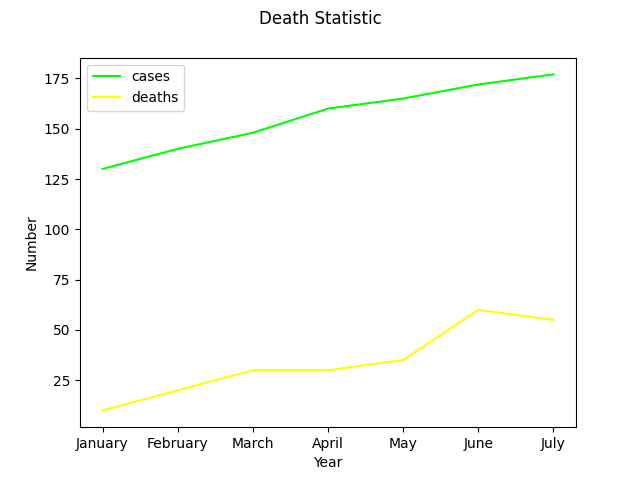
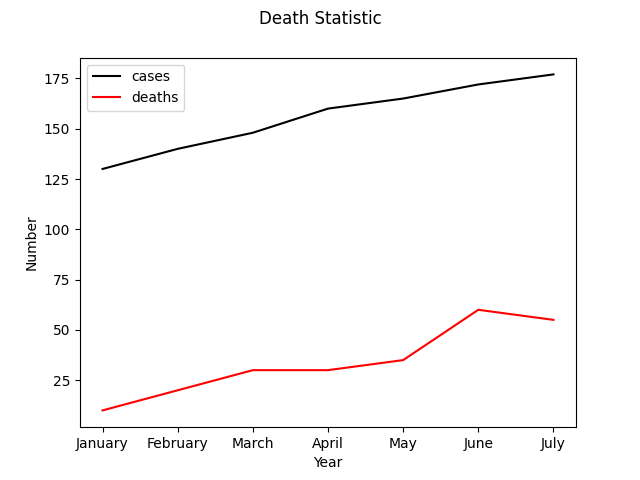
Add README file and Screenshots folder.
First version of README file. Correct some lines in Matplot.py and
Seaborn.py. Also correct collor in the Double_Line_Chart.png.

diff --git a/Matplot.py b/Matplot.py
@@ -11,19 +11,19 @@ df = pd.DataFrame(data, index=data['months'])
 
 # Bar Chart
 df['deaths'].plot(kind='bar')
-plt.savefig('Bar_Chart.png')
+plt.savefig('Dio(Histo)grams/Bar_Chart.png')
 # Bar Chart With 2 Values
 df = df[['cases', 'deaths']]
 df.plot(kind='bar', stacked=True)  # kind = 'barh' - make horizontal bar chart
-plt.savefig('Double_Bar_Chart.png')
+plt.savefig('Dio(Histo)grams/Double_Bar_Chart.png')
 
 # Range Diagram
 df['deaths'].describe().plot(kind="box")
-plt.savefig('Range_Diagram.png')
+plt.savefig('Dio(Histo)grams/Range_Diagram.png')
 
 # Histogram
 df['deaths'].plot(kind="hist")
-plt.savefig('Histogram.png')
+plt.savefig('Dio(Histo)grams/Histogram.png')
 
 # Scatter-plot
 df.plot(kind="scatter", x="cases", y="deaths")
@@ -35,15 +35,15 @@ plt.savefig('Dio(Histo)grams/Pie_Chart.png')
 
 # Line Chart
 df.plot()
-plt.savefig('Line_Chart.png')
+plt.savefig('Line_Charts/Line_Chart.png')
 # Setting The Charts
-df[['cases', 'deaths']].plot(kind="line", legend=True, color=['#00FF00', '#FFFF00'])
+df[['cases', 'deaths']].plot(kind="line", legend=True, color=['#000000', '#FF0000'])
 plt.xlabel('Year')  # X axis
 plt.ylabel('Number')  # Y axis
 plt.suptitle("Death Statistic")  # create title
-plt.savefig('Double_Line_Chart.png')
+plt.savefig('Line_Charts/Double_Line_Chart.png')
 
 # Double Area Chart
 df = df[['cases', 'deaths']]
 df.plot(kind="area", stacked=False)
-plt.savefig('Double_Area_Chart.png')
+plt.savefig('Line_Charts/Double_Area_Chart.png')

diff --git a/Seaborn.py b/Seaborn.py
@@ -1,6 +1,6 @@
+import seaborn as sns
 from numpy import random
 import matplotlib.pyplot as plt
-import seaborn as sns
 
 # Visualization of Normal Distribution
 sns.displot(random.normal(size=1000), kind="kde")

diff --git a/README.md b/README.md
@@ -1,0 +1,284 @@
+# Data_Science
+![Pypi](https://img.shields.io/pypi/pyversions/Pandas)
+![Python](https://img.shields.io/pypi/pyversions/Numpy?color=blueviolet)
+![Forks](https://img.shields.io/github/forks/Kalinka5/Data_science?style=social)
+![Contributors](https://img.shields.io/github/contributors/Kalinka5/Data_science?color=red)
+
+This **repository** is a cheat sheet how to make various **diograms**, **histograms**, **line**, **bar** or even **pie charts**.
+
+Also, we wiil see a various of **destributions**, like **binomial**, **exponential**, **normal** and so on.
+___
+
+## *Files_location*
++ Dio_Histo_grams
+  + Bar_Chart.png
+  + Double_Bar_Chart.png
+  + Histogram.png
+  + Pie_Chart.png
+  + Range_Diagram.png
+  + Scatter-plot.png
++ Line_Charts
+  + Double_Area_Chart.png
+  + Double_Line_Chart.png
+  + Line_Chart.png
++ distribution
+  + Binomial_Distribution.png
+  + Chi_Square_Distribution.png
+  + Exponential_Distribution.png
+  + Logistic_Distribution.png
+  + Multinomial_Distribution.png
+  + Normal_Distribution.png
+  + Pareto_Distribution.png
+  + Poisson_Distribution.png
+  + Rayleigh_Distribution.png
+  + Uniform_Distribution.png
+  + Zipf_Distribution.png
++ Matplot.py
++ Numpy.py
++ Numpy_random.py
++ Pandas.py
++ Seaborn.py
++ main.py
+___
+
+## ***Usage***
+### *Pandas*
+Start with [Pandas library](https://pandas.pydata.org). **Pandas** is a fast, powerful, flexible and easy to use open source data analysis and manipulation tool, built on top of the Python programming language.
+
+First of all, import [pandas](https://pandas.pydata.org/getting_started.html) in our programm.
+```python
+import pandas as pd
+```
+
+Create a new Table Data Frame with our index by using parameter *"index"* in the DataFrame function. 
+```python
+# create Table Data Frame
+data = {
+    'table_data': {
+        'ages': [14, 18, 24, 42],
+        'heights': [1.65, 1.80, 1.76, 1.88],
+        'weight': [45, 60, 82, 65]
+    },
+    'index_data': ['Katya', 'Egor', 'Eldar', 'Danya']
+}
+df = pd.DataFrame(data['table_data'], index=data['index_data'])
+```
+
+Also, we can **add a new column** in our table like this:
+```python
+# add a new column (Series)
+df['BMI'] = df['weight'] / (df['heights']**2)
+```
+
+And finally, print the result to the console:
+```python
+# get all table
+print(f'{df}\n')
+```
+
+<img src="Screenshots/Table.jpg">
+
+It's all just a part of this library. There are a lot of commands like **slices the table**, **conditionals**, **grouping**, get **count**, **mean**, **std**, **min**, **max** values and so on.
+___
+
+### *Matplotlib*
+Second important library is [Matplotlib](https://matplotlib.org). **Matplotlib** is a comprehensive library for creating static, animated, and interactive visualizations in Python.
+
+First of all, import [matplotlib.pyplot](https://matplotlib.org/stable/tutorials/introductory/pyplot.html) and [pandas](https://pandas.pydata.org/getting_started.html) in our programm.
+```python
+import matplotlib.pyplot as plt
+import pandas as pd
+```
+
+Then make some information statistic and save it in a dictionary data type.
+```python
+data = {
+    'cases': [130, 140, 148, 160, 165, 172, 177],
+    'deaths': [10, 20, 30, 30, 35, 60, 55],
+    'months': ['January', 'February', 'March', 'April', 'May', 'June', 'July'],
+
+}
+```
+
+After that, we wiil make **table** using library **pandas**. And make index by **'months'** in our table.
+```python
+df = pd.DataFrame(data, index=data['months'])
+```
+
+This is example of **Double Line Chart**:  
+```python
+# make 2 lines - "cases" and "deaths"
+df[['cases', 'deaths']].plot(kind="line", legend=True, color=['#000000', '#FF0000'])
+
+plt.xlabel('Year')  # X axis
+plt.ylabel('Number')  # Y axis
+
+plt.suptitle("Death Statistic")  # create title
+
+# save visualization in the folder
+plt.savefig('Line_Charts/Double_Line_Chart.png')
+```
+
+As the result, we will have this visualization:
+
+<img src="Line_Charts/Double_Line_Chart.png">
+
+___
+
+### *Seaborn*
+And of course, the really cool visualization library is [Seaborn](https://seaborn.pydata.org). **Seaborn** is a Python data visualization library based on matplotlib. It provides a high-level interface for drawing attractive and informative statistical graphics.
+
+let`s import [seaborn](https://seaborn.pydata.org/installing.html), [numpy.random](https://numpy.org/doc/stable/reference/random/index.html) and [matplotlib.pyplot](https://matplotlib.org/stable/tutorials/introductory/pyplot.html) in our programm.
+```python
+import seaborn as sns
+from numpy import random
+import matplotlib.pyplot as plt
+```
+
+With these libraries we will make visualization of different distributions.
+
+As for example, we will make distributions of dice rolling.
+
+We will use three parameters:
+
+n - number of possible outcomes (e.g. 6 for dice roll).
+
+pvals - list of probabilties of outcomes (e.g. [1/6, 1/6, 1/6, 1/6, 1/6, 1/6] for dice roll).
+
+size - The shape of the returned array.
+
+```python
+# Visualization of Multinomial Distribution
+sns.displot(random.multinomial(n=6, pvals=[1/6, 1/6, 1/6, 1/6, 1/6, 1/6], size=1000), kind="kde")
+plt.savefig('distribution/Multinomial_Distribution.png')
+```
+And get this incredible visualization of **multinomial distribution**:
+
+<img src="distribution/Multinomial_Distribution.png">
+
+And this is not the only one distribution what we can visualize. There are Normal, Binomial, Logistic Distributions etc. 
+___
+
+### *Numpy*
+Last but not least, the library [Numpy](https://numpy.org). **NumPy** offers comprehensive mathematical functions, random number generators, linear algebra routines, Fourier transforms, and more.
+
+And first, import [numpy](https://numpy.org/install/) in our programm.
+```python
+import numpy as np
+```
+
+```python
+# create array with float numbers
+x = np.array(range(10), float)  # dtype='f'
+```
+
+```python
+# create two-dimensional array
+dm2 = np.array([[1, 2, 3], [4, 5, 6], [7, 8, 9]])
+```
+
+```python
+# array reshaping
+reshape_x = x.reshape((5, 2))
+print(x)  # [0. 1. 2. 3. 4. 5. 6. 7. 8. 9.]
+print(reshape_x)  # [[0. 1.]
+#                   [2. 3.]
+#                   [4. 5.]
+#                   [6. 7.]
+#                   [8. 9.]]
+```
+
+
+
+
+
+
+
+
+## *Example*
+When you open the programme you will choose the language you are comfortable with (*ukrainian* or *english*). Also you can choose play game with audio :sound: or without it :mute:. 
+
+<img src="screenshots/example1.jpg">
+
+The game also features a choice of actions. Where the character goes or what phrase he says.
+
+<img src="screenshots/example2.jpg">
+
+There are easy and hard levels. If you chose hard difficalty level you will play short games. Also in this level you will have lives :hearts: and if you lose everything, you will automatically lose.
+
+<img src="screenshots/example3.jpg">
+
+___
+
+## *Mini_games*
+*In detective game you have 3 mini games.*
+- "Guess the number"
+- "Dice rolling"
+- "Rock, paper, scissors"
+
+### __"Guess the number"__
+It's first game where you should guess the number which computer was guessed.
+Here’s what it looks like:
+
+<img src="screenshots/game1.JPG">
+
+___
+
+### __"Dice rolling"__
+This is second game :game_die: where you must roll the dice and sum of the digits must be greater than or equal to 8. Here’s what it looks like:
+
+<img src="screenshots/game2.JPG">
+
+___
+
+### __"Rock, paper, scissors"__
+And there is last game where you should play famous child game "Rock, paper, scissors". I hope you know rules of this game. Here’s what it looks like:
+
+<img src="screenshots/game3.JPG">
+<img src="screenshots/game3_1.JPG">
+
+___
+
+## *PyTorch*
+
+And the trump card in my program is the voices of [Silero models](https://github.com/snakers4/silero-models).
+
+With this module you can set more than 100 votes to the character. 
+
+First of all, import [torch](https://github.com/pytorch/pytorch) and [soundfile](https://pypi.org/project/SoundFile/) in our programm.
+```python
+import torch
+import soundfile as sf
+```
+
+Then make configuration of character:
+```python
+language = 'en'
+model_id = 'v3_en'
+sample_rate = 48000
+speaker = 'en_70'  # en_0, en_1, ..., en_117, random
+put_accent = True
+put_yo = True
+device = torch.device('cpu')  # cpu or gpu
+
+
+model, _ = torch.hub.load(repo_or_dir='snakers4/silero-models',
+                          model='silero_tts',
+                          language=language,
+                          speaker=model_id)
+
+model.to(device)
+```
+In conclusion, we convert text to speach and save it in _wav_ format.
+```python
+def author_speak(what: str, n):
+    audio = model.apply_tts(ssml_text=what,
+                            speaker=speaker,
+                            sample_rate=sample_rate,
+                            put_accent=put_accent,
+                            put_yo=put_yo)
+
+    sf.write(f'vvauthor_say{n}.wav', audio, sample_rate)
+```
+- First you can open executable file in **detective_game** [archives](https://github.com/Kalinka5/detective_game/tree/main/archives);
+- Second you can open any IDE and run *"main"* program in **python_files** [arhives](https://github.com/Kalinka5/detective_game/tree/main/archives).
